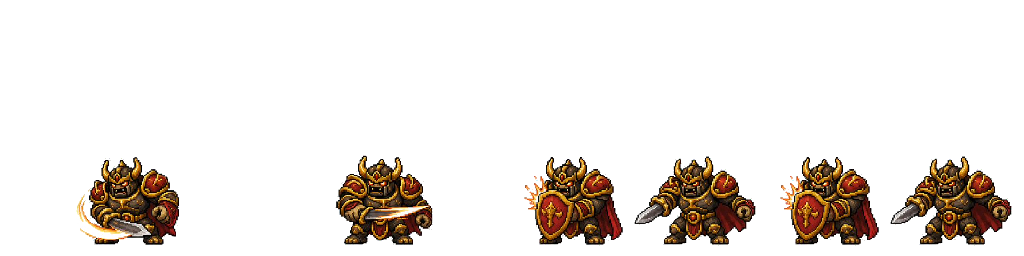
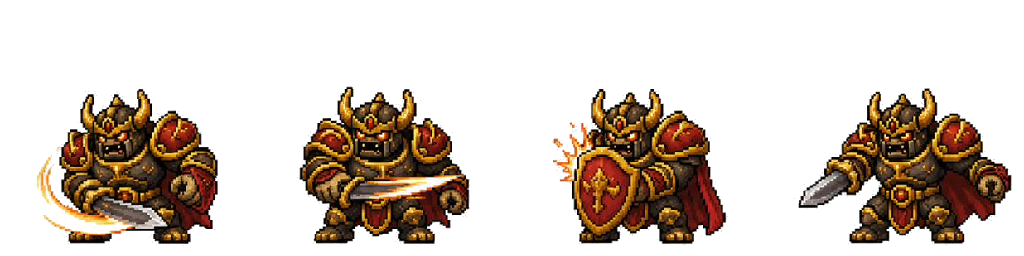
Add files via upload

diff --git a/js/pages/game-page.js b/js/pages/game-page.js
@@ -21,7 +21,8 @@ import {
 import { getDb } from '../firebase/firebase-app.js';
 import { doc, getDoc } from 'https://www.gstatic.com/firebasejs/10.12.5/firebase-firestore.js';
 import {
-  applySafeBackground, createSafeSprite, mountIdleSprite, createIcon, playActionSprite, ACTION_DURATION_MS
+  applySafeBackground, createSafeSprite, mountIdleSprite, createIcon, playActionSprite,
+  ACTION_DURATION_MS, getAssetPath
 } from '../asset-manifest.js';
 import { showModal, confirmDialog } from '../ui/modal.js';
 import { toast } from '../ui/toast.js';
@@ -1098,18 +1099,36 @@ function renderResult(r) {
   const boss = r.bossResult;
   const victory = boss ? boss.victory : r.accuracyRatio >= 0.7;
 
-  const hero = $('#result-emoji');
-  clearNode(hero);
-  const heroIcon = boss
-    ? (victory ? ['icons', 'star'] : ['icons', 'sword'])
-    : (r.accuracyRatio >= 0.9 ? ['icons', 'star']
-      : r.accuracyRatio >= 0.7 ? ['effects', 'correct']
-      : ['effects', 'fire']);
-  hero.appendChild(createIcon(heroIcon[0], heroIcon[1], { size: 72 }));
+  // Kemenangan atas Boss Menara Campuran = tamat permainan. Rayakan dengan
+  // ilustrasi penuh, bukan ikon kecil seperti hasil sesi biasa.
+  const menangCampuran = victory && r.bossId === 'mixed-boss';
+  const heroWrap = $('#result-emoji');
+  clearNode(heroWrap);
+  show($('#result-victory-art'), menangCampuran);
 
-  $('#result-title').textContent = boss
-    ? (victory ? 'Boss Dikalahkan!' : 'Boss Belum Tumbang')
-    : (r.mode === MODES.PLACEMENT ? 'Tes Awal Selesai' : 'Sesi Selesai');
+  if (menangCampuran) {
+    const art = $('#result-victory-art');
+    clearNode(art);
+    const img = document.createElement('img');
+    img.className = 'victory-art__img';
+    img.src = getAssetPath('ui', 'victory-mixed') || '';
+    img.alt = 'Kerajaan Manusia diselamatkan. Sesi 1 selesai!';
+    img.addEventListener('error', () => { show(art, false); }, { once: true });
+    art.appendChild(img);
+  } else {
+    const heroIcon = boss
+      ? (victory ? ['icons', 'star'] : ['icons', 'sword'])
+      : (r.accuracyRatio >= 0.9 ? ['icons', 'star']
+        : r.accuracyRatio >= 0.7 ? ['effects', 'correct']
+        : ['effects', 'fire']);
+    heroWrap.appendChild(createIcon(heroIcon[0], heroIcon[1], { size: 72 }));
+  }
+
+  $('#result-title').textContent = menangCampuran
+    ? 'Kerajaan Manusia Diselamatkan!'
+    : (boss
+        ? (victory ? 'Boss Dikalahkan!' : 'Boss Belum Tumbang')
+        : 'Sesi Selesai');
 
   $('#result-message').textContent = r.motivation;
 

diff --git a/css/game.css b/css/game.css
@@ -448,8 +448,17 @@
 }
 
 /* Musuh menghadap pemain (gambar asli menghadap kiri/kanan sama; cerminkan musuh). */
+/* Musuh menghadap pemain (pemain di kiri, musuh di kanan). */
 #enemy-sprite .idle-sprite,
 #enemy-sprite .pixel-img { transform: scaleX(-1); }
+
+/*
+ * PENGECUALIAN: Boss Menara Campuran. Seni sprite-nya SUDAH menghadap kiri
+ * (ke arah pemain), jadi mencerminkannya justru membuatnya membelakangi
+ * pemain. Ditandai lewat data-sprite-key yang dipasang mountIdleSprite().
+ */
+#enemy-sprite[data-sprite-key="mixed-boss"] .idle-sprite,
+#enemy-sprite[data-sprite-key="mixed-boss"] .pixel-img { transform: none; }
 
 /* Hormati preferensi "kurangi animasi": tampilkan frame pertama saja. */
 .reduce-motion .idle-sprite { animation: none; }
@@ -759,3 +768,29 @@
 }
 
 .reduce-motion .progress__fill--critical { animation: none; }
+
+/* ============ ILUSTRASI KEMENANGAN BOSS CAMPURAN (tamat) ============ */
+
+.victory-art {
+  margin: 0 auto var(--space-3);
+  max-width: min(92vw, 420px);
+  animation: victory-rise 600ms cubic-bezier(0.34, 1.56, 0.64, 1);
+}
+
+.victory-art__img {
+  display: block;
+  width: 100%;
+  height: auto;
+  max-height: 62dvh;
+  object-fit: contain;
+  border: 3px solid var(--color-primary);
+  border-radius: var(--radius-lg);
+  box-shadow: 0 8px 0 rgba(4, 7, 15, 0.85), 0 0 24px rgba(255, 201, 60, 0.35);
+}
+
+@keyframes victory-rise {
+  from { transform: translateY(18px) scale(0.94); opacity: 0; }
+  to   { transform: none; opacity: 1; }
+}
+
+.reduce-motion .victory-art { animation: none; }

diff --git a/game.html b/game.html
@@ -156,6 +156,7 @@
       <!-- ========== LAYAR: HASIL ========== -->
       <section id="screen-result" class="container container--narrow stack-lg" hidden>
         <div class="result-hero">
+          <div class="victory-art" id="result-victory-art" hidden></div>
           <span class="result-hero__emoji" id="result-emoji" aria-hidden="true"></span>
           <h1 class="result-hero__title" id="result-title">Sesi Selesai</h1>
           <p class="result-hero__message" id="result-message"></p>

diff --git a/js/asset-manifest.js b/js/asset-manifest.js
@@ -43,8 +43,9 @@ export const ASSETS = {
     'mixed-boss':   `${ASSET_BASE}/idle/mixed-boss.png`
   },
   ui: {
-    'main-menu': `${ASSET_BASE}/ui/main-menu.png`,
-    story:       `${ASSET_BASE}/ui/story.png`
+    'main-menu':     `${ASSET_BASE}/ui/main-menu.png`,
+    story:           `${ASSET_BASE}/ui/story.png`,
+    'victory-mixed': `${ASSET_BASE}/ui/victory-mixed.jpg`
   },
   characters: {
     leader:     `${ASSET_BASE}/characters/leader.png`,

diff --git a/js/game/game-engine.js b/js/game/game-engine.js
@@ -379,6 +379,7 @@ export class GameEngine {
       ...summary,
       ...profileUpdate,
       bossResult,
+      bossId,                 // dipakai layar hasil, mis. kemenangan Boss Campuran
       newBadges,
       mastery,
       recommendations: this.getRecommendations().slice(0, 3),

diff --git a/README.md b/README.md
@@ -12,6 +12,39 @@ mengukur kecepatan dan ketepatan, serta menyimpan perkembangan setiap siswa.
 
 ---
 
+## Pembaruan Kedelapan Belas (Juli 2026) — Boss Campuran: Animasi & Layar Kemenangan
+
+1. **Animasi Boss Campuran diperbaiki — bug ekstraksi ditemukan.**
+   Baris *attack* dan *death* pada sheet Boss Campuran hanya terdeteksi
+   3 kolom, bukan 4: dua sprite terakhir letaknya sangat rapat sehingga
+   celah pemisahnya lebih tipis dari ambang deteksi, dan keduanya menyatu
+   menjadi SATU frame selebar ~500px (persis laporan "ketika menyerang dia
+   ada 2 gambar"). Frame sisanya lalu kosong.
+
+   Ekstraksi kini memecah kolom yang lebarnya jauh di atas median, dengan
+   memotong tepat di titik paling "sepi" (lembah terdalam) di antara kedua
+   sprite. Hasil: keempat baris kini 4 kolom penuh, dan isi frame membaik
+   drastis — attack 9%→29%, death 6%→21%.
+
+2. **Boss Campuran kini menghadap pemain.** Seni sprite-nya sudah menghadap
+   kiri (ke arah pemain), tetapi CSS mencerminkan SEMUA sprite musuh sehingga
+   ia justru membelakangi pemain. Ditambahkan pengecualian berbasis
+   `data-sprite-key`, sehingga hanya Boss Campuran yang tidak dicerminkan.
+   Diverifikasi: slime & boss-8 tetap dicerminkan, mixed-boss tidak.
+
+3. **Layar kemenangan Boss Campuran.** Mengalahkan penjaga terakhir kini
+   menampilkan ilustrasi penuh "Kerajaan Manusia Diselamatkan" (gambar yang
+   diunggah), bukan ikon kecil seperti hasil sesi biasa. Judulnya pun berubah
+   menjadi "Kerajaan Manusia Diselamatkan!".
+
+   Gambar dikonversi ke JPG dan diperkecil ke lebar 720px: **258 KB**
+   dibanding 2,2 MB versi asli — penting karena game ini dipakai siswa
+   dengan kuota terbatas. Tingginya dibatasi 62% layar agar tombol di
+   bawahnya tetap terlihat, dan bila gambar gagal dimuat, layar otomatis
+   kembali ke tampilan hasil biasa.
+
+---
+
 ## Pembaruan Ketujuh Belas (Juli 2026) — Lencana, Dashboard, Menara Campuran
 
 1. **Kata "fakta" dibersihkan tuntas** dari seluruh teks yang tampil ke
